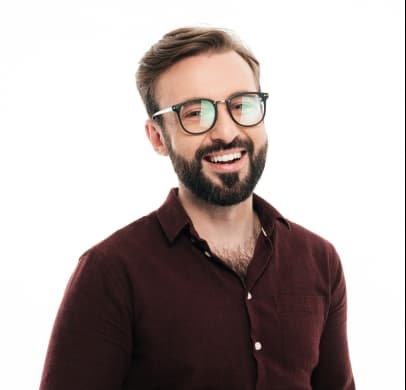
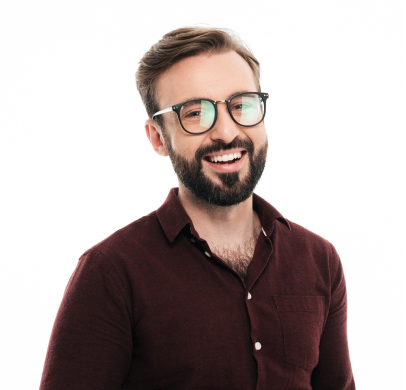
changed 1
Changed img (graphic issue)
Issue solved in atributes

diff --git a/index.html b/index.html
@@ -107,7 +107,7 @@
               <img
                 src="images/threeemployee.jpg"
                 alt="smailing brown hair man in blue shirt"
-                width="270px"
+                width="270"
                 height="260"
               />
               <h5>John Doe</h5>
